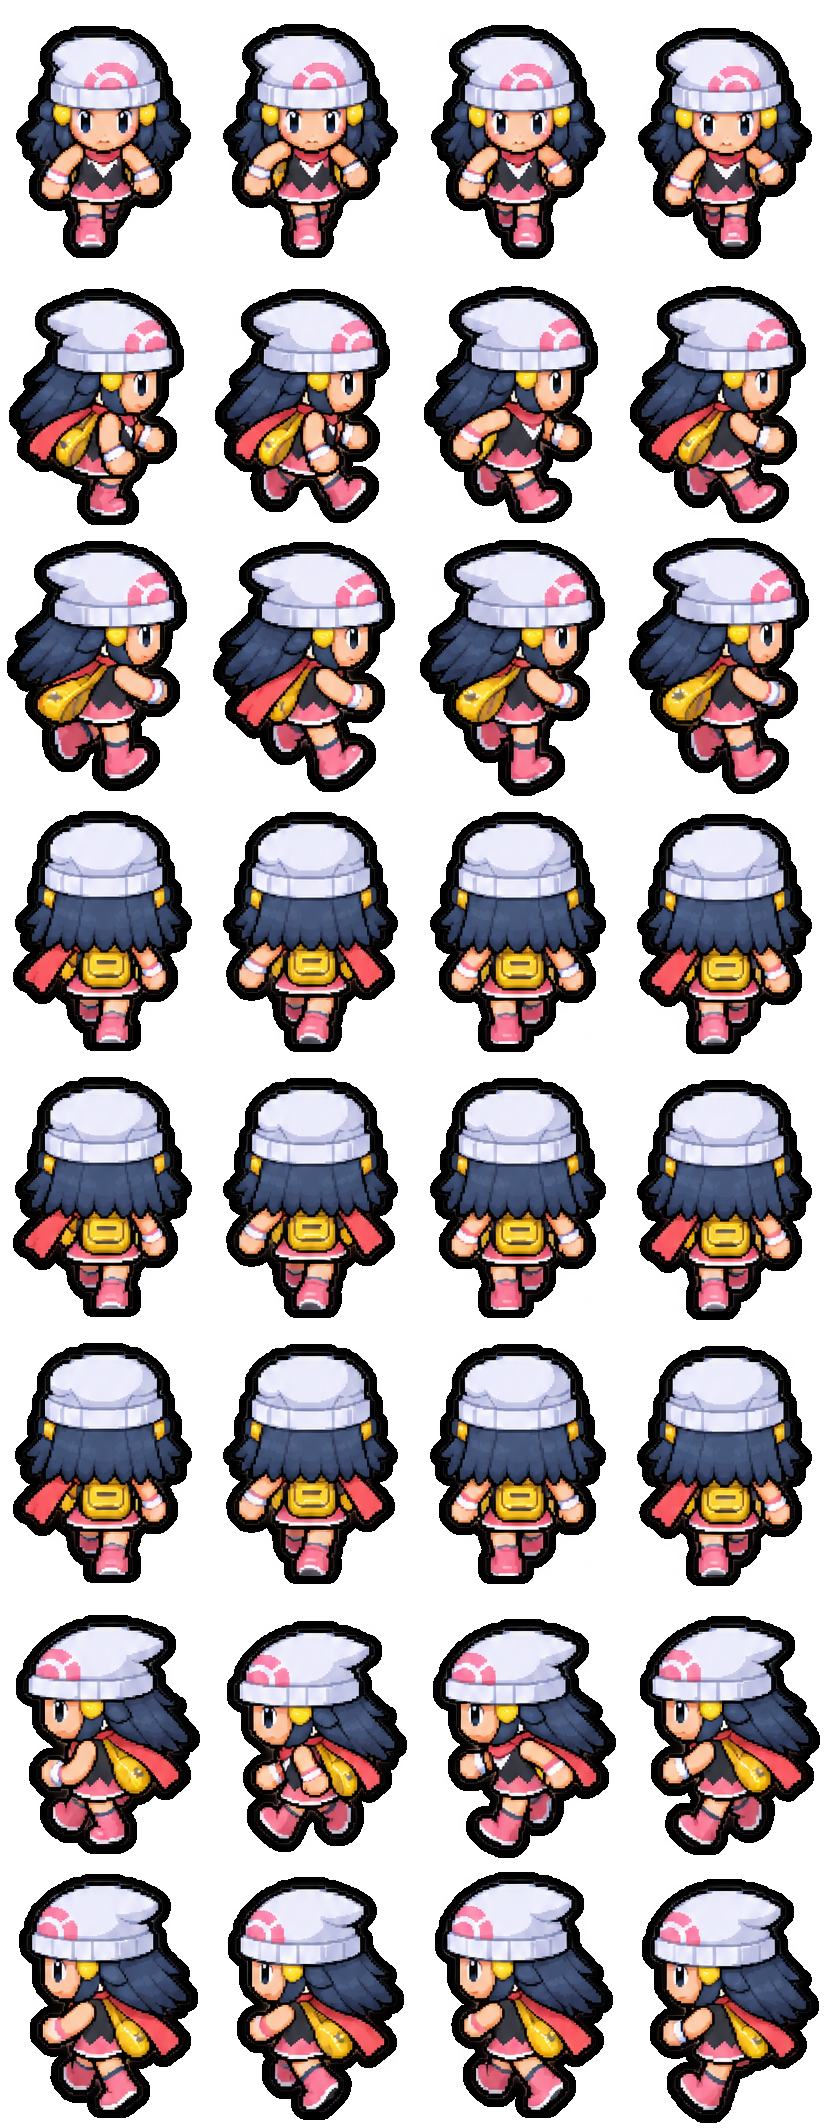
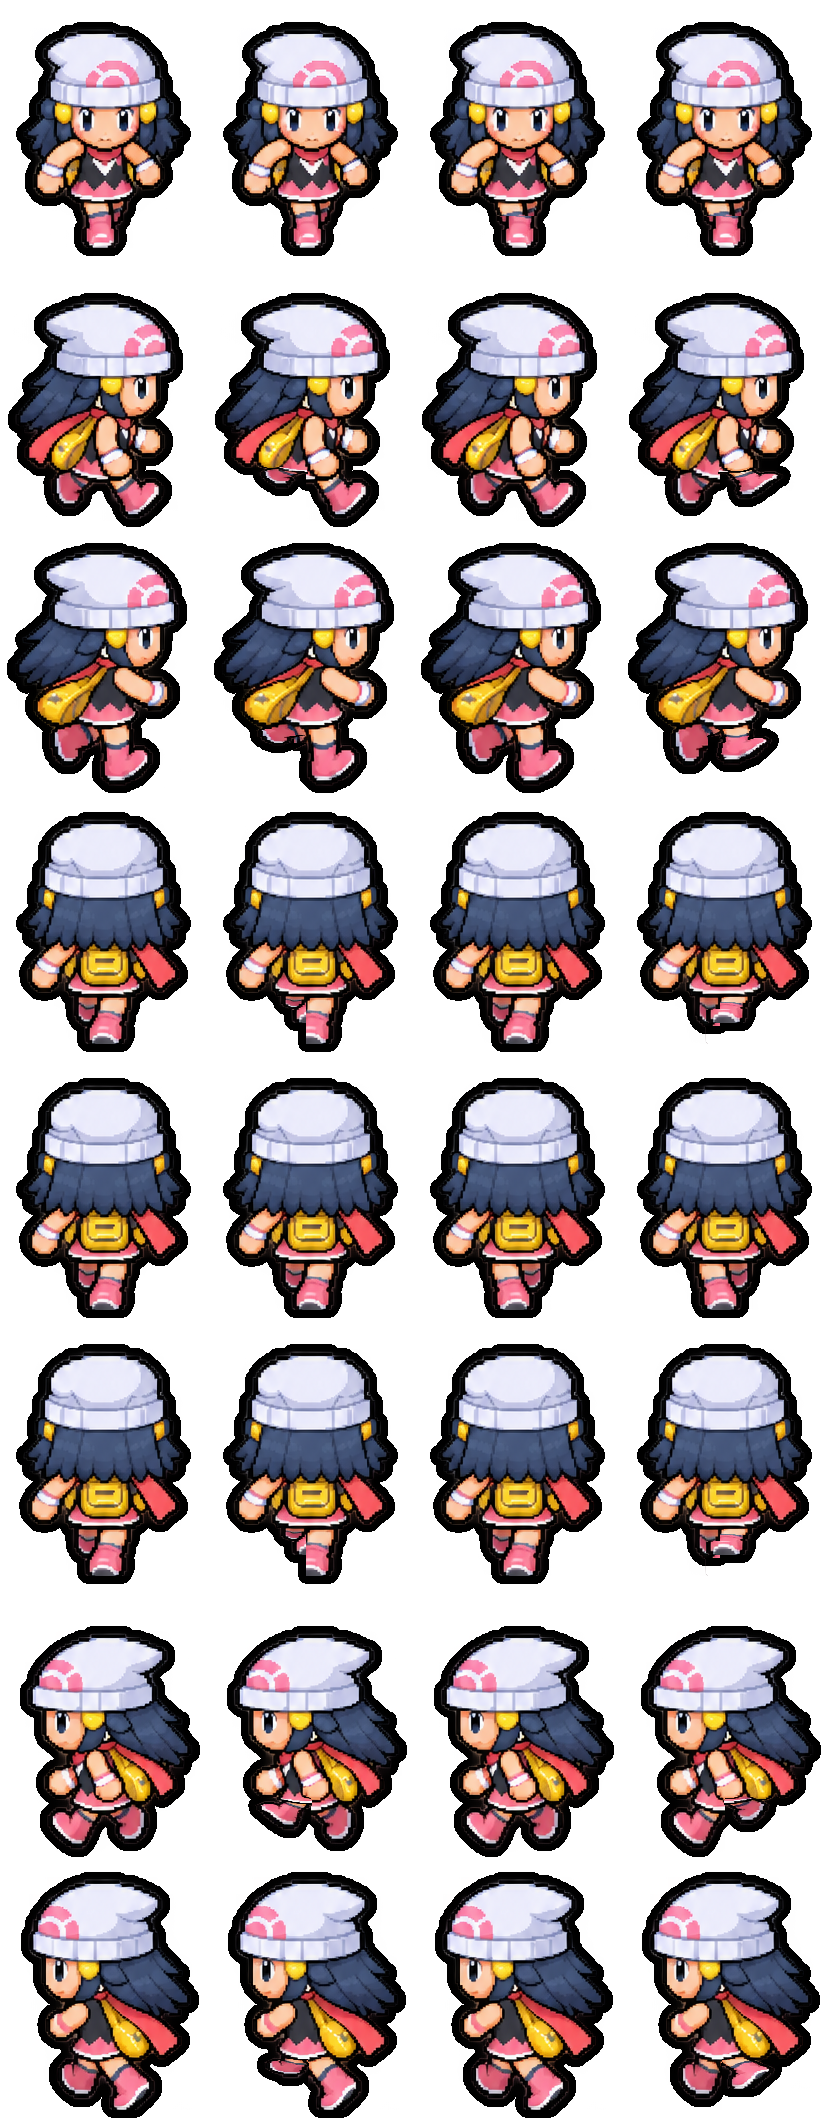
feat(treinador): passo de verdade nas 8 skins, com pes que alternam
Na arte de origem as pernas quase nao mudam entre os quadros (Mochileiro de frente: 51/50/50/51 px de abertura), entao o boneco deslizava. O importador agora gera o ciclo de UMA pose por direcao: em pe, um pe no ar, em pe, o outro pe no ar. De frente/costas com um pe so a mostra, o passo oposto e a perna espelhada. Tronco e cabeca identicos nos 4 quadros; balanco do corpo alinhado ao quadro de pe no ar.

diff --git a/scripts/arte/cicloDoTreinador.test.ts b/scripts/arte/cicloDoTreinador.test.ts
@@ -46,3 +46,35 @@ describe('ciclo de caminhada sem soluço', () => {
     })
   }
 })
+
+// "Efeito de andar de verdade" (10/11/2026): na arte de origem as pernas quase
+// nao mudavam entre os quadros e o boneco deslizava. O ciclo e gerado: tronco e
+// cabeca identicos nos 4 quadros, e as pernas mudam de um quadro pro seguinte.
+function diferenca(skin: string, r: number, a: number, b: number, deY: number, ateY: number, p: PNG): number {
+  const g = quadros[skin as keyof typeof quadros]
+  let n = 0
+  for (let y = deY; y < ateY; y++) for (let x = 0; x < g.frameWidth; x++) {
+    const i = ((r * g.frameHeight + y) * p.width + a * g.frameWidth + x) * 4
+    const j = ((r * g.frameHeight + y) * p.width + b * g.frameWidth + x) * 4
+    if ((p.data[i + 3] > 128) !== (p.data[j + 3] > 128)) n++
+  }
+  return n
+}
+
+describe('ciclo de caminhada com passo', () => {
+  for (const skin of Object.keys(quadros)) {
+    it(`${skin}: 4 quadros, tronco parado e pernas que alternam em toda direção`, () => {
+      const g = quadros[skin as keyof typeof quadros]
+      expect(g.walkFrames).toBe(4)
+      const p = PNG.sync.read(readFileSync(join(RAIZ, `assets/treinadores/campo/${skin}/Walk-Anim.png`)))
+      const quadril = Math.round(g.footY - g.bodyHeight * 0.32)
+      // Um pe de ~1 px de mundo de largura por ~2 de altura, na resolucao da fonte.
+      const minimo = (g.bodyHeight / 30) ** 2 * 2
+      for (let r = 0; r < 8; r++) {
+        for (let q = 1; q < 4; q++) expect(diferenca(skin, r, 0, q, 0, quadril, p), `${skin} linha ${r}: tronco mudou no quadro ${q}`).toBe(0)
+        const mexe = [0, 1, 2, 3].filter((q) => diferenca(skin, r, q, (q + 1) % 4, quadril, g.frameHeight, p) > minimo)
+        expect(mexe.length, `${skin} linha ${r}: pernas paradas`).toBeGreaterThanOrEqual(2)
+      }
+    })
+  }
+})

diff --git a/src/render/treinadorEmCampo.ts b/src/render/treinadorEmCampo.ts
@@ -92,7 +92,7 @@ const FOLGA_PRA_PARAR = 0.15
 /** Quanto a direcao segue o movimento por quadro (0..1): vira suave, sem tremer de linha. */
 const SUAVIZA_DIRECAO = 0.25
 
-/** Duração do Idle; Walk conserva o ciclo de 40px com 4 ou 5 poses por skin. */
+/** Duração do Idle; Walk anda por distância: 40 px a volta, 4 quadros (em pé, pé no ar, em pé, o outro pé). */
 const DURACOES: Record<'Walk' | 'Idle', number[]> = {
   Walk: [8, 10, 8, 10],
   // Dois quadros iguais (o mais ereto da fonte); a respiracao e do desenho.
@@ -150,8 +150,10 @@ export function poseDoTreinador(
     const f = Math.sin((relogio / RESPIRACAO_PERIODO) * Math.PI * 2)
     return { sx: 1 - RESPIRACAO_ESTICA * 0.45 * f, sy: 1 + RESPIRACAO_ESTICA * f, giro: 0, sobe: 0 }
   }
-  // Dois passos por ciclo: no chao no passo aberto (0 e 0,5), no alto nas pernas cruzadas.
-  const sobe = BALANCO_DO_PASSO * (0.5 - 0.5 * Math.cos(progressoDoPasso * Math.PI * 4))
+  // Dois passos por ciclo (10/11/2026): os quadros 1 e 3 tem um pe no ar — o
+  // corpo esta no alto no MEIO deles (0,375 e 0,875) e no chao no meio dos
+  // quadros em pe (0,125 e 0,625).
+  const sobe = BALANCO_DO_PASSO * (0.5 - 0.5 * Math.cos((progressoDoPasso - 0.125) * Math.PI * 4))
   return { sx: 1, sy: 1, giro: 0, sobe }
 }
 

diff --git a/src/render/poseDoTreinador.test.ts b/src/render/poseDoTreinador.test.ts
@@ -13,11 +13,11 @@ describe('pose do treinador', () => {
     for (const p of alturas) { expect(p.giro).toBe(0); expect(p.sobe).toBe(0) }
   })
 
-  it('andando: no chao no passo aberto, no alto com as pernas cruzadas', () => {
-    expect(poseDoTreinador('Walk', 0, 0, null).sobe).toBeCloseTo(0)
-    expect(poseDoTreinador('Walk', 0, 0.5, null).sobe).toBeCloseTo(0)
-    expect(poseDoTreinador('Walk', 0, 0.25, null).sobe).toBeGreaterThan(0.015)
-    expect(poseDoTreinador('Walk', 0, 0.75, null).sobe).toBeGreaterThan(0.015)
+  it('andando: no chao no meio do quadro em pe, no alto no meio do quadro de pe no ar', () => {
+    expect(poseDoTreinador('Walk', 0, 0.125, null).sobe).toBeCloseTo(0)
+    expect(poseDoTreinador('Walk', 0, 0.625, null).sobe).toBeCloseTo(0)
+    expect(poseDoTreinador('Walk', 0, 0.375, null).sobe).toBeGreaterThan(0.015)
+    expect(poseDoTreinador('Walk', 0, 0.875, null).sobe).toBeGreaterThan(0.015)
   })
 
   it('arremesso: recua pro lado contrario ao alvo, joga pra frente e volta a pose normal', () => {

diff --git a/src/render/treinadorEmCampo.test.ts b/src/render/treinadorEmCampo.test.ts
@@ -44,7 +44,7 @@ describe('pontoAtras', () => {
 })
 
 describe('TreinadorEmCampo: seguidor de gente (09/10)', () => {
-  it('Red usa os cinco quadros originais sem sair do atlas ao trocar de skin', () => {
+  it('Red passa pelos quatro quadros do passo sem sair do atlas ao trocar de skin', () => {
     const t = new TreinadorEmCampo()
     t.skin = 'red'
     const vistos = new Set<number>()
@@ -52,7 +52,7 @@ describe('TreinadorEmCampo: seguidor de gente (09/10)', () => {
       t.atualizar({ x: i * 1.5, y: 100, radius: RAIO, facing: { x: 1, y: 0 } }, DT)
       if (t.animacao === 'Walk') vistos.add(t.quadro)
     }
-    expect(vistos).toEqual(new Set([0, 1, 2, 3, 4]))
+    expect(vistos).toEqual(new Set([0, 1, 2, 3]))
     t.skin = 'mochila'
     t.atualizar({ x: 901.5, y: 100, radius: RAIO, facing: { x: 1, y: 0 } }, DT)
     expect(t.quadro).toBeLessThan(4)

diff --git a/src/data/patchNotes.ts b/src/data/patchNotes.ts
@@ -13,6 +13,15 @@ export interface PatchNoteEntry {
 
 export const PATCH_NOTES: PatchNoteEntry[] = [
   {
+    version: '8.64',
+    date: '2026-11-10',
+    title: 'Treinador anda de verdade',
+    highlights: [
+      'O treinador em campo agora dá passos: os pés alternam e o corpo sobe e desce junto, em vez de deslizar.',
+      'Vale para as 8 skins e para todas as direções; parado, ele continua reto e respirando como antes.',
+    ],
+  },
+  {
     version: '8.63',
     date: '2026-11-10',
     title: 'Textos e telas mais claros',
